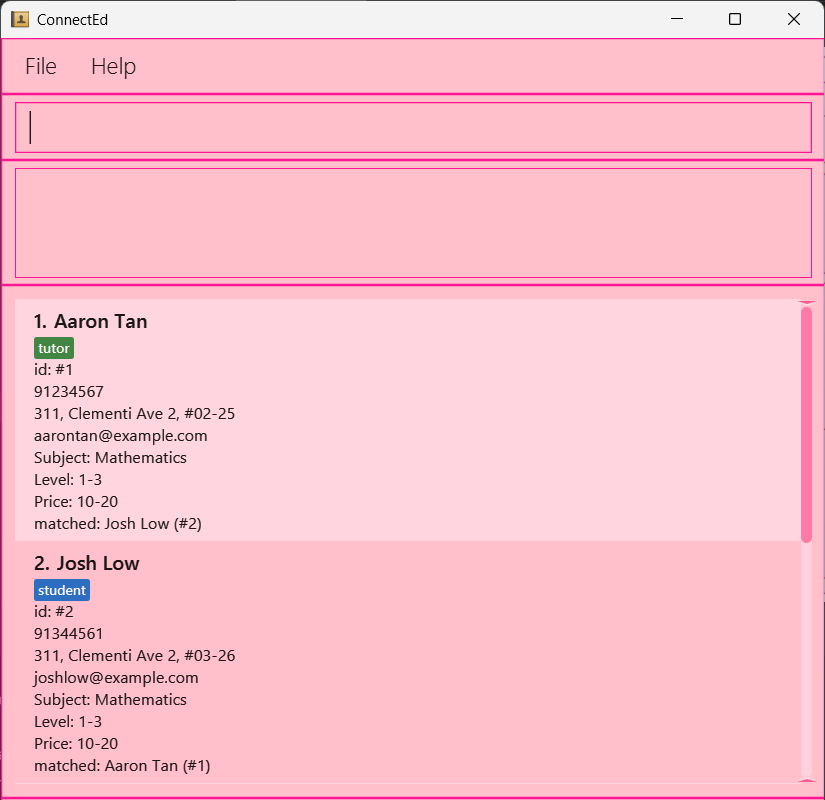
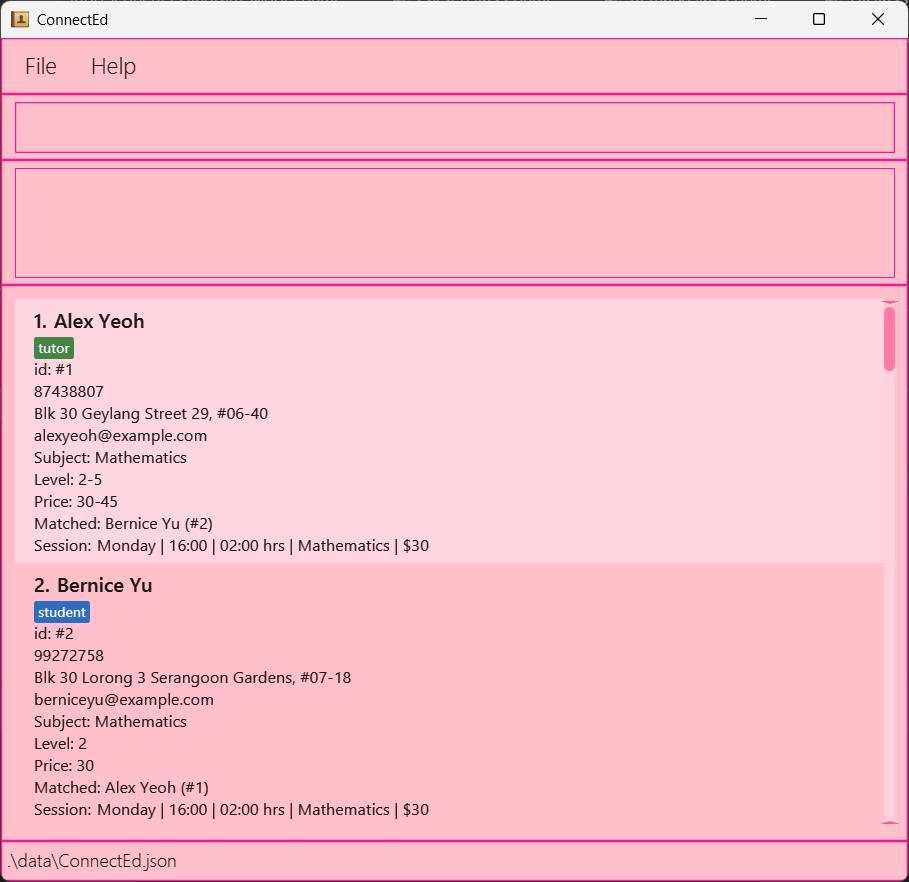
Modify Ui image and settle prefix bug

Changed region(s): [[0.0, 0.0, 1.0, 1.0]]

diff --git a/src/test/java/seedu/address/logic/parser/SessionAddCommandParserTest.java b/src/test/java/seedu/address/logic/parser/SessionAddCommandParserTest.java
@@ -24,7 +24,7 @@ public class SessionAddCommandParserTest {
     private final SessionAddCommandParser parser = new SessionAddCommandParser();
     @Test
     public void parse_allFieldsPresent_success() {
-        String input = "1 d/Monday t/15:30 dur/02:00 s/Mathematics p/40";
+        String input = "1 d/Monday t/15:30 dur/02:00 sbj/Mathematics p/40";
         Session expectedSession = new Session(
                 DayOfWeek.MONDAY,
                 LocalTime.of(15, 30),
@@ -38,7 +38,7 @@ public class SessionAddCommandParserTest {
 
     @Test
     public void parse_differentDayAndTime_success() {
-        String input = "2 d/Wednesday t/10:15 dur/01:30 s/Science p/55";
+        String input = "2 d/Wednesday t/10:15 dur/01:30 sbj/Science p/55";
         Session expectedSession = new Session(
                 DayOfWeek.WEDNESDAY,
                 LocalTime.of(10, 15),
@@ -52,7 +52,7 @@ public class SessionAddCommandParserTest {
 
     @Test
     public void parse_extraWhitespace_success() {
-        String input = "   3   d/Friday   t/09:00   dur/00:45   s/English   p/25   ";
+        String input = "   3   d/Friday   t/09:00   dur/00:45   sbj/English   p/25   ";
         Session expectedSession = new Session(
                 DayOfWeek.FRIDAY,
                 LocalTime.of(9, 0),
@@ -65,39 +65,39 @@ public class SessionAddCommandParserTest {
     }
     @Test
     public void parse_missingDuration_failure() {
-        String input = "1 d/Monday t/15:30 s/Mathematics p/40";
+        String input = "1 d/Monday t/15:30 sbj/Mathematics p/40";
         assertParseFailure(parser, input,
                 String.format(MESSAGE_INVALID_COMMAND_FORMAT, SessionAddCommand.MESSAGE_USAGE));
     }
 
     @Test
     public void parse_invalidDay_failure() {
-        String input = "1 d/Mon t/15:30 dur/01:00 s/Mathematics p/40";
+        String input = "1 d/Mon t/15:30 dur/01:00 sbj/Mathematics p/40";
         assertParseFailure(parser, input, "Invalid day! Use a full day name (e.g. Monday, Tuesday, Wednesday).");
     }
 
     @Test
     public void parse_invalidTime_failure() {
-        String input = "1 d/Monday t/25:00 dur/01:00 s/Mathematics p/40";
+        String input = "1 d/Monday t/25:00 dur/01:00 sbj/Mathematics p/40";
         assertParseFailure(parser, input, "Invalid time format! Use HH:mm (e.g. 15:30).");
     }
 
     @Test
     public void parse_invalidDuration_failure() {
-        String input = "1 d/Monday t/15:30 dur/99:99 s/Mathematics p/40";
+        String input = "1 d/Monday t/15:30 dur/99:99 sbj/Mathematics p/40";
         assertParseFailure(parser, input, "Invalid duration! Hours must be >= 0 and minutes between 00–59.");
     }
 
     @Test
     public void parse_priceRangeInsteadOfSingle_failure() {
-        String input = "1 d/Monday t/15:30 dur/01:30 s/Mathematics p/30-40";
+        String input = "1 d/Monday t/15:30 dur/01:30 sbj/Mathematics p/30-40";
         assertParseFailure(parser, input,
                 "Session price must be a single value (e.g. p/ 50), not a range (e.g. 30-40).");
     }
 
     @Test
     public void parse_invalidIndex_failure() {
-        String input = "zero d/Monday t/15:30 dur/01:30 s/Mathematics p/40";
+        String input = "zero d/Monday t/15:30 dur/01:30 sbj/Mathematics p/40";
         assertParseFailure(parser, input,
                 String.format(MESSAGE_INVALID_COMMAND_FORMAT, SessionAddCommand.MESSAGE_USAGE));
     }
@@ -111,7 +111,7 @@ public class SessionAddCommandParserTest {
 
     @Test
     public void parse_missingPrice_failure() {
-        String input = "1 d/Monday t/15:30 dur/01:30 s/Mathematics";
+        String input = "1 d/Monday t/15:30 dur/01:30 sbj/Mathematics";
         assertParseFailure(parser, input,
                 String.format(MESSAGE_INVALID_COMMAND_FORMAT, SessionAddCommand.MESSAGE_USAGE));
     }

diff --git a/src/test/java/seedu/address/logic/parser/RecommendCommandParserTest.java b/src/test/java/seedu/address/logic/parser/RecommendCommandParserTest.java
@@ -30,7 +30,7 @@ public class RecommendCommandParserTest {
     @Test
     public void parse_validIndexWithSubjectFlag_returnsRecommendCommand() {
         RecommendCommand expected = new RecommendCommand(Index.fromOneBased(1), true, false, false);
-        assertParseSuccess(parser, "1 s/", expected);
+        assertParseSuccess(parser, "1 sbj/", expected);
     }
 
     @Test
@@ -56,7 +56,7 @@ public class RecommendCommandParserTest {
     @Test
     public void parse_validIndexWithAllFlags_returnsRecommendCommand() {
         RecommendCommand expected = new RecommendCommand(Index.fromOneBased(1), true, true, true);
-        assertParseSuccess(parser, "1 s/ l/ p/", expected);
+        assertParseSuccess(parser, "1 sbj/ l/ p/", expected);
     }
 
     @Test
@@ -75,7 +75,7 @@ public class RecommendCommandParserTest {
 
     @Test
     public void parse_valueAfterPrefix_throwsParseException() {
-        assertParseFailure(parser, "1 s/abc", "Subject specifier should not have a value.");
+        assertParseFailure(parser, "1 sbj/abc", "Subject specifier should not have a value.");
         assertParseFailure(parser, "1 l/123", "Level specifier should not have a value.");
         assertParseFailure(parser, "1 p/xyz", "Price specifier should not have a value.");
     }
@@ -83,6 +83,6 @@ public class RecommendCommandParserTest {
     @Test
     public void parse_excessiveWhitespace_returnsRecommendCommand() {
         RecommendCommand expected = new RecommendCommand(Index.fromOneBased(1), true, true, true);
-        assertParseSuccess(parser, "  1   s/   l/   p/  ", expected);
+        assertParseSuccess(parser, "  1   sbj/   l/   p/  ", expected);
     }
 }

diff --git a/src/main/java/seedu/address/logic/commands/SessionAddCommand.java b/src/main/java/seedu/address/logic/commands/SessionAddCommand.java
@@ -15,8 +15,8 @@ public class SessionAddCommand extends Command {
 
     public static final String MESSAGE_USAGE = COMMAND_WORD
             + ": Adds a session to the specified person (must be matched).\n"
-            + "Format: sessionadd INDEX d/DAY t/TIME dur/DURATION s/SUBJECT p/PRICE\n"
-            + "Example: sessionadd 1 d/Monday t/16:00 dur/02:00 s/Mathematics p/40";
+            + "Format: sessionadd INDEX d/DAY t/TIME dur/DURATION sbj/SUBJECT p/PRICE\n"
+            + "Example: sessionadd 1 d/Monday t/16:00 dur/02:00 sbj/Mathematics p/40";
 
     public static final String MESSAGE_SUBJECT_MISMATCH =
             "Cannot add session: subject mismatch.\nPerson’s subject: %s\nSession’s subject: %s";
@@ -65,7 +65,7 @@ public class SessionAddCommand extends Command {
         model.updateFilteredPersonList(Model.PREDICATE_SHOW_ALL_PERSONS);
 
         return new CommandResult(String.format(
-                "Added session for %s and their matched partner %s:\n%s",
+                "Updated session for %s and their matched partner %s:\n%s",
                 aClone.getName(), bClone.getName(), session));
     }
     /**

diff --git a/src/test/java/seedu/address/logic/parser/AddressBookParserTest.java b/src/test/java/seedu/address/logic/parser/AddressBookParserTest.java
@@ -68,11 +68,11 @@ public class AddressBookParserTest {
     public void parseCommand_find() throws Exception {
         AddressBookParser parser = new AddressBookParser();
 
-        assertTrue(parser.parseCommand("find tutors s/Mathematics") instanceof FindCommand);
-        assertTrue(parser.parseCommand("find students s/English l/3 p/40") instanceof FindCommand);
+        assertTrue(parser.parseCommand("find tutors sbj/Mathematics") instanceof FindCommand);
+        assertTrue(parser.parseCommand("find students sbj/English l/3 p/40") instanceof FindCommand);
 
         assertThrows(ParseException.class, () ->
-                parser.parseCommand("find tutor s/Mathematics")); // singular should fail
+                parser.parseCommand("find tutor sbj/Mathematics")); // singular should fail
     }
 
 

diff --git a/src/test/java/seedu/address/logic/parser/FindCommandParserTest.java b/src/test/java/seedu/address/logic/parser/FindCommandParserTest.java
@@ -24,7 +24,7 @@ public class FindCommandParserTest {
     @Test
     public void parse_validSubjectArgsWithRole_success() {
         assertDoesNotThrow(() -> {
-            var command = parser.parse("students s/Mathematics Science");
+            var command = parser.parse("students sbj/Mathematics Science");
             assertTrue(command instanceof FindCommand);
         });
     }
@@ -75,8 +75,8 @@ public class FindCommandParserTest {
 
     @Test
     public void parse_emptySubjectPrefix_failure() {
-        assertParseFailure(parser, "students s/",
-                "Subject value after s/ cannot be empty.");
+        assertParseFailure(parser, "students sbj/",
+                "Subject value after sbj/ cannot be empty.");
     }
 
     @Test

diff --git a/src/main/java/seedu/address/logic/parser/CliSyntax.java b/src/main/java/seedu/address/logic/parser/CliSyntax.java
@@ -12,7 +12,7 @@ public class CliSyntax {
     public static final Prefix PREFIX_EMAIL = new Prefix("e/");
     public static final Prefix PREFIX_ADDRESS = new Prefix("a/");
     public static final Prefix PREFIX_TAG = new Prefix("t/");
-    public static final Prefix PREFIX_SUBJECT = new Prefix("s/");
+    public static final Prefix PREFIX_SUBJECT = new Prefix("sbj/");
     public static final Prefix PREFIX_LEVEL = new Prefix("l/");
     public static final Prefix PREFIX_PRICE = new Prefix("p/");
     public static final Prefix PREFIX_DAY = new Prefix("d/");

diff --git a/src/main/java/seedu/address/logic/commands/FindCommand.java b/src/main/java/seedu/address/logic/commands/FindCommand.java
@@ -25,7 +25,7 @@ public class FindCommand extends Command {
             + "Format: " + COMMAND_WORD
             + " [ROLE] [n/ NAME] [s/ SUBJECT] [l/ LEVEL (single or range)] [p/ PRICE (single or range)]\n"
             + "Note: You may include multiple values per prefix, and prefix order does not matter.\n"
-            + "Example: " + COMMAND_WORD + " tutors n/ Aaron s/ Mathematics English l/ 1-3 p/ 20-50";
+            + "Example: " + COMMAND_WORD + " tutors n/ Aaron sbj/ Mathematics English l/ 1-3 p/ 20-50";
 
 
 

diff --git a/src/main/java/seedu/address/logic/parser/FindCommandParser.java b/src/main/java/seedu/address/logic/parser/FindCommandParser.java
@@ -92,7 +92,7 @@ public class FindCommandParser implements Parser<FindCommand> {
         }
         List<String> allSubjects = map.getAllValues(PREFIX_SUBJECT);
         if (allSubjects.stream().allMatch(s -> s.trim().isEmpty())) {
-            throw new ParseException("Subject value after s/ cannot be empty.");
+            throw new ParseException("Subject value after sbj/ cannot be empty.");
         }
         List<Subject> subjects = new ArrayList<>();
         for (String s : allSubjects) {

diff --git a/src/test/java/seedu/address/logic/commands/SessionAddCommandTest.java b/src/test/java/seedu/address/logic/commands/SessionAddCommandTest.java
@@ -100,7 +100,7 @@ public class SessionAddCommandTest {
         CommandResult result = command.execute(model);
 
         String expectedMessage = String.format(
-                "Added session for %s and their matched partner %s:\n%s",
+                "Updated session for %s and their matched partner %s:\n%s",
                 tutor.getName(), student.getName(), session);
         assertEquals(expectedMessage, result.getFeedbackToUser());
 

diff --git a/src/main/java/seedu/address/model/person/Name.java b/src/main/java/seedu/address/model/person/Name.java
@@ -16,8 +16,7 @@ public class Name {
      * The first character of the address must not be a whitespace,
      * otherwise " " (a blank string) becomes a valid input.
      */
-    public static final String VALIDATION_REGEX = "[\\p{Alnum}][\\p{Alnum} ]*";
-
+    public static final String VALIDATION_REGEX = "[\\p{Alnum}/][\\p{Alnum}/ ]*";
     public final String fullName;
 
     /**

diff --git a/src/main/java/seedu/address/logic/parser/SessionAddCommandParser.java b/src/main/java/seedu/address/logic/parser/SessionAddCommandParser.java
@@ -17,7 +17,7 @@ import seedu.address.model.person.Subject;
 
 /**
  * Parses input arguments and creates a new SessionAddCommand object.
- * Format: sessionadd INDEX d/DAY t/TIME s/SUBJECT p/PRICE
+ * Format: sessionadd INDEX d/DAY t/TIME sbj/SUBJECT p/PRICE
  */
 public class SessionAddCommandParser implements Parser<SessionAddCommand> {
 

diff --git a/docs/DeveloperGuide.md b/docs/DeveloperGuide.md
@@ -241,9 +241,9 @@ Given below is an example usage scenario and how the find mechanism behaves at e
 
 #### Step 1. User executes the `find` command
 
-The user enters the command below in the command box: eg `"find tutors s/Mathematics"`
+The user enters the command below in the command box: eg `"find tutors sbj/Mathematics"`
 
-The `LogicManager` passes this string to `AddressBookParser#parseCommand("find tutors s/Mathematics")`.
+The `LogicManager` passes this string to `AddressBookParser#parseCommand("find tutors sbj/Mathematics")`.
 
 The `AddressBookParser` identifies the keyword `find` and delegates parsing to the `FindCommandParser`.
 
@@ -295,7 +295,7 @@ The following sequence diagram shows how a find operation goes through the Logic
     * **Cons:** Limited and cannot filter by subjects, levels, prices, or distinguish tutors from students.
 
 * **Alternative 2 (current choice)**: Enhanced `FindCommand` supporting multiple prefixes (`n/`, `s/`, `l/`, `p/`) and optional roles (`tutors`, `students`).
-    * **Pros:** Far more flexible and supports complex searches like `find tutors s/Mathematics l/4 p/10-30`. Uses modular predicates for each attribute.
+    * **Pros:** Far more flexible and supports complex searches like `find tutors sbj/Mathematics l/4 p/10-30`. Uses modular predicates for each attribute.
     * **Cons:** Slightly more complex parser and predicate logic, higher validation overhead.
 
 #### Aspect: How logical conditions are applied
@@ -393,7 +393,7 @@ Given below is an example usage scenario and how the recommend mechanism behaves
 
 Step 1. The user launches the application for the first time. The application displays the full list of tutors and students.
 
-Step 2. The user executes `recommend 2 s/` command to find tutors/students matching the subject of the student/tutor. The `RecommendCommandParser` validates the input and creates a `RecommendCommand`. The command retrieves the specified user, constructs a predicate based on the user's subject requirement, and applies it using `Model#updateFilteredPersonList(predicate)` to display recommended tutors matching the criteria.
+Step 2. The user executes `recommend 2 sbj/` command to find tutors/students matching the subject of the student/tutor. The `RecommendCommandParser` validates the input and creates a `RecommendCommand`. The command retrieves the specified user, constructs a predicate based on the user's subject requirement, and applies it using `Model#updateFilteredPersonList(predicate)` to display recommended tutors matching the criteria.
 
 <div markdown="span" class="alert alert-info">:information_source: **Note:** If a recommend command fails validation (e.g., invalid parameters), the `RecommendCommandParser` will throw a `ParseException`, and the command will not execute. The user will see an appropriate error message.
 
@@ -672,10 +672,10 @@ Use case ends.
 
 1. The tuition coordinator enters a `find` command specifying an optional target role (`tutors` or `students`) and one or more filters using prefixes `n/`, `s/`, `l/`, or `p/` with their respective values.  
    Examples:
-    * `find s/ Mathematics`
+    * `find sbj/ Mathematics`
     * `find students l/ 3`
     * `find tutors p/ 20-50 l/ 4`
-    * `find students n/ Tan s/ English`
+    * `find students n/ Tan sbj/ English`
 
 2. ConnectEd validates the input:
     * Ensures a valid role (`tutors` or `students`) is provided or otherwise not present.
@@ -696,9 +696,9 @@ Use case ends.
 
 4. ConnectEd combines all active predicates:
     * **Within the same prefix** → combined using **OR logic**  
-      (e.g. `find tutors s/ Mathematics Science` shows tutors teaching Mathematics **or** Science)
+      (e.g. `find tutors sbj/ Mathematics Science` shows tutors teaching Mathematics **or** Science)
     * **Across different prefixes** → combined using **AND logic**  
-      (e.g. `find tutors s/ Mathematics l/ 4` shows tutors teaching Mathematics **and** Level 4)
+      (e.g. `find tutors sbj/ Mathematics l/ 4` shows tutors teaching Mathematics **and** Level 4)
 
 5. The filtered list of tutors or students matching all conditions is displayed in the UI.  
    The list automatically updates based on the applied predicate.
@@ -721,7 +721,7 @@ Use case ends.
       
       Note: You may include multiple values per prefix, and prefix order does not matter.
       
-      Example: find tutors n/ Aaron s/ Mathematics English l/ 1-3 p/ 20-50
+      Example: find tutors n/ Aaron sbj/ Mathematics English l/ 1-3 p/ 20-50
 
 * **2b.** No valid prefixes (`n/`, `s/`, `l/`, `p/`) are provided.
     * **2b1.** ConnectEd shows:  
@@ -729,13 +729,13 @@ Use case ends.
       find: Finds persons that match the specified criteria.  
       Format: find [ROLE] [n/ NAME] [s/ SUBJECT] [l/ LEVEL (single or range)] [p/ PRICE (single or range)]  
       Note: You may include multiple values per prefix, and prefix order does not matter.  
-      Example: find tutors n/ Aaron s/ Mathematics English l/ 1-3 p/ 20-50”*  
+      Example: find tutors n/ Aaron sbj/ Mathematics English l/ 1-3 p/ 20-50”*  
       Use case ends.
 
 * **2c.** A prefix value is empty (e.g. `n/ `, `s/ `, `l/ `, or `p/ `).
     * **2c1.** ConnectEd shows a prefix-specific error message such as:  
       *“Name value after n/ cannot be empty.”*  
-      *“Subject value after s/ cannot be empty.”*  
+      *“Subject value after sbj/ cannot be empty.”*  
       *“Level value after l/ cannot be empty.”*  
       *“Price value after p/ cannot be empty.”*  
       Use case ends.
@@ -755,7 +755,7 @@ Use case ends.
       find: Finds persons that match the specified criteria.  
       Format: find [ROLE] [n/ NAME] [s/ SUBJECT] [l/ LEVEL (single or range)] [p/ PRICE (single or range)]  
       Note: You may include multiple values per prefix, and prefix order does not matter.  
-      Example: find tutors n/ Aaron s/ Mathematics English l/ 1-3 p/ 20-50”*  
+      Example: find tutors n/ Aaron sbj/ Mathematics English l/ 1-3 p/ 20-50”*  
       Use case ends.
 
 * **3a.** No persons match the provided criteria.
@@ -1043,7 +1043,7 @@ testers are expected to do more *exploratory* testing.
    2. Test case: `add aaron`<br>
       Expected: No tutor is added. Error details shown in the status message. Status bar remains the same.
 
-   3. Other incorrect add commands to try: `add`, `add tutor aaron hp/ 0 /a Blk 30 Geylang Street 29, #06-40 s/ mathematics l/ 3 p/ 20-30`<br>
+   3. Other incorrect add commands to try: `add`, `add tutor aaron hp/ 0 /a Blk 30 Geylang Street 29, #06-40 sbj/ mathematics l/ 3 p/ 20-30`<br>
       Expected: Similar to previous.
 
 ### Deleting a tutor
@@ -1065,13 +1065,13 @@ testers are expected to do more *exploratory* testing.
 
 1. Finding a student or students.
 
-    1. Test case: `find student s/ english`<br>
+    1. Test case: `find student sbj/ english`<br>
        Expected: Students that have the 'english' subject are being listed. 
 
     2. Test case: `find student`<br>
         Expected: No student is listed. Error details shown in the status message. Status bar remains the same.
 
-    3. Other incorrect add commands to try: `find`, `find student s/ eng`<br>
+    3. Other incorrect add commands to try: `find`, `find student sbj/ eng`<br>
         Expected: Similar to previous.
 
 ### Matching a student and tutor
@@ -1096,10 +1096,10 @@ testers are expected to do more *exploratory* testing.
 ### Recommending tutors to a student/ students to a tutor
 1. Recommending tutors to a student/ students to a tutor.
 
-   1. Test case: `recommend 3 s/ l/`<br>
+   1. Test case: `recommend 3 sbj/ l/`<br>
         Expected: Tutors/Students that match the subject and level of person with index `3` are being listed.
 
-   2. Test case: `recommend 1 s/ p/`<br>
+   2. Test case: `recommend 1 sbj/ p/`<br>
         Expected: Tutors/Students that match the subject and price range of person with index `1` are being listed.
 
    3. Test case: `recommend 2`<br>
